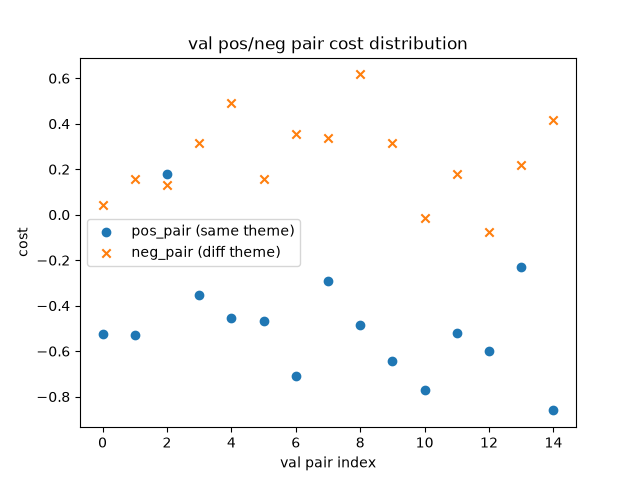
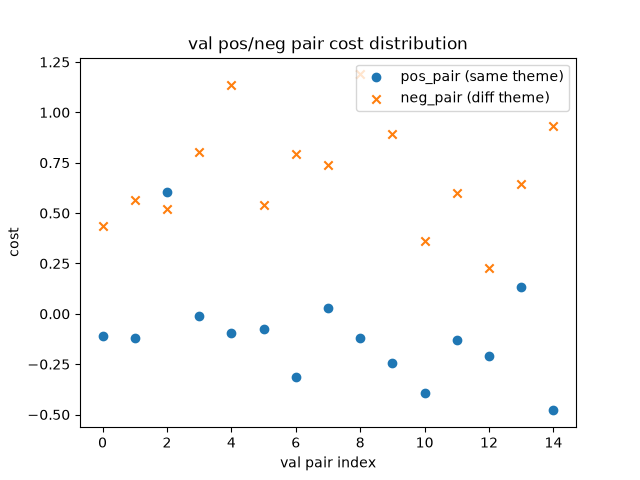
feat(scoring): TransitionCostModel 체크포인트 저장/로딩 추가
save_checkpoint/load_checkpoint를 추가해 evaluate_transition_cost_model.py가
학습 끝난 모델을 Ai/checkpoints/transition_cost_model.pt(41KB)로 저장하도록
연결. load_checkpoint는 torch.load(weights_only=True)로 불러와 신뢰 못 하는
체크포인트의 임의 코드 실행을 방지. 실측 재현: val cost ranking accuracy
93.33%(14/15) 그대로 확인.

diff --git a/Ai/transition_cost_model.py b/Ai/transition_cost_model.py
@@ -10,6 +10,8 @@ mlp.py의 ScoringMLP(사진 한 장 -> 테마 적합도 점수, 절대 점수형
 
 from __future__ import annotations
 
+from pathlib import Path
+
 import torch
 import torch.nn as nn
 
@@ -17,6 +19,7 @@ from mlp import INPUT_DIM, margin_ranking_loss
 
 DEFAULT_EPOCHS = 100
 DEFAULT_LR = 1e-3
+CHECKPOINT_PATH = Path(__file__).parent / "checkpoints" / "transition_cost_model.pt"
 
 
 class TransitionCostModel(nn.Module):
@@ -70,6 +73,20 @@ def train(
         loss_history.append(loss.item())
 
     return model, loss_history
+
+
+def save_checkpoint(model: TransitionCostModel, path: Path = CHECKPOINT_PATH) -> None:
+    """학습된 모델 가중치를 저장 — 이후 세션/백엔드에서 재학습 없이 불러다 쓰기 위함."""
+    path.parent.mkdir(parents=True, exist_ok=True)
+    torch.save(model.state_dict(), path)
+
+
+def load_checkpoint(path: Path = CHECKPOINT_PATH) -> TransitionCostModel:
+    """저장된 가중치를 불러와 eval 모드(Dropout 끔) TransitionCostModel로 복원."""
+    model = TransitionCostModel()
+    model.load_state_dict(torch.load(path, map_location="cpu", weights_only=True))
+    model.eval()
+    return model
 
 
 if __name__ == "__main__":

diff --git a/tests/ai/test_transition_cost_model.py b/tests/ai/test_transition_cost_model.py
@@ -6,7 +6,7 @@
 
 import torch
 from mlp import INPUT_DIM
-from transition_cost_model import TransitionCostModel, pair_cost, train
+from transition_cost_model import TransitionCostModel, load_checkpoint, pair_cost, save_checkpoint, train
 
 
 def test_pair_cost_is_symmetric_regardless_of_argument_order():
@@ -43,6 +43,22 @@ def test_train_returns_a_transition_cost_model_and_full_loss_history():
 
     assert isinstance(model, TransitionCostModel)
     assert len(loss_history) == 5
+
+
+def test_save_and_load_checkpoint_round_trips_same_weights(tmp_path):
+    checkpoint_path = tmp_path / "transition_cost_model.pt"
+    model = TransitionCostModel()
+    feat_a = torch.randn(3, INPUT_DIM)
+    feat_b = torch.randn(3, INPUT_DIM)
+    model.eval()
+    cost_before = pair_cost(model, feat_a, feat_b)
+
+    save_checkpoint(model, checkpoint_path)
+    loaded = load_checkpoint(checkpoint_path)
+
+    assert checkpoint_path.exists()
+    cost_after = pair_cost(loaded, feat_a, feat_b)
+    assert torch.allclose(cost_before, cost_after)
 
 
 def test_train_converges_close_to_zero_on_a_fixed_batch():

diff --git a/Ai/evaluate_transition_cost_model.py b/Ai/evaluate_transition_cost_model.py
@@ -4,6 +4,7 @@
       train/val 쌍 각각 샘플링 -> transition_cost_model.train(train)으로 학습
       -> val에 대해 "cost(pos_pair) < cost(neg_pair)" 비율 측정
       -> loss curve, val 비용 분포를 docs/ai/output/에 PNG로 저장
+      -> 학습된 가중치를 Ai/checkpoints/transition_cost_model.pt로 저장
 """
 
 from __future__ import annotations
@@ -18,7 +19,7 @@ import matplotlib.pyplot as plt
 import torch
 
 from dataset import load_photo_pool, sample_theme_pair_features
-from transition_cost_model import TransitionCostModel, pair_cost, train
+from transition_cost_model import CHECKPOINT_PATH, TransitionCostModel, pair_cost, save_checkpoint, train
 
 REPO_ROOT = Path(__file__).resolve().parent.parent
 OUTPUT_DIR = REPO_ROOT / "docs" / "ai" / "output"
@@ -96,3 +97,6 @@ if __name__ == "__main__":
 
     print(f"저장: {OUTPUT_DIR / 'transition_loss_curve.png'}")
     print(f"저장: {OUTPUT_DIR / 'transition_cost_distribution.png'}")
+
+    save_checkpoint(model)
+    print(f"체크포인트 저장: {CHECKPOINT_PATH}")
